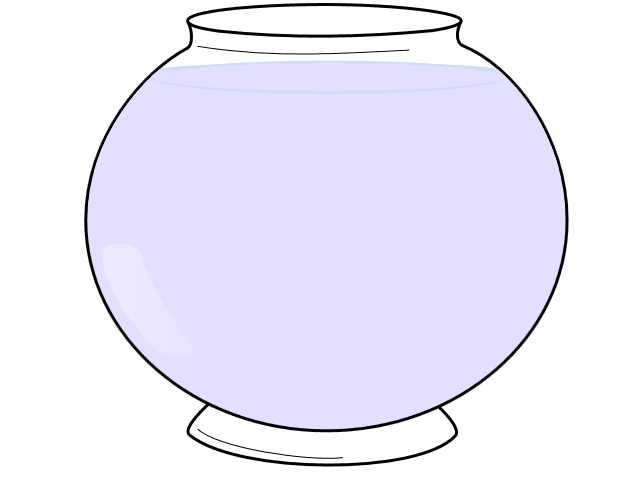
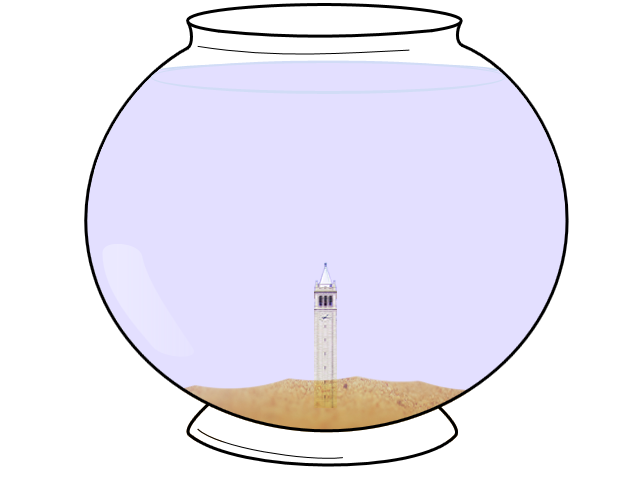
fishbowl picture addition and fish.java

Changed region(s): [[0.2812, 0.5625, 0.7188, 0.9062]]

diff --git a/com/lelandcs/platformer/gfx/Fish.java b/com/lelandcs/platformer/gfx/Fish.java
@@ -7,6 +7,7 @@ import java.io.IOException;
 import java.net.URL;
 import java.util.ArrayList;
 import javax.imageio.ImageIO;
+import java.lang.Object*;
 
 public class Fish{
 	
@@ -26,21 +27,30 @@ public class Fish{
 		image = new Image("fish.png");
 		image.x = 0; //Get random x and y coords for 
 		image.y = 0;
-		state = State.FADEIN; 
-		
-		
-				
+		state = State.FADEIN; 			
 	}
 	
 	public void update() {
 		//currTime += time;
 		if (state == State.DIE) {
+			image.diry += 1; //floats fish to the top
+			if (image.y == rectangle.y) {
 			state = State.FADEOUT; //If it has died in the last cycle begin fadeout! 
+			}
 		}
-		if (currTime >= timeInterval) {
+		if (currTime >= this.expiredDate) {
 			state = State.DIE; // Once the time's up this fish dies!
 		}
-		
+		else if (state == FADEIN) {
+			state = SWIM;
+		} else {
+			if (image.x <= rectangle.x) || (image.x >= rectangle.x + width) { //moves fish back and forth the bowl
+				image.dirx = x(-1)*(image.dirx);
+			image.diry = Math.random()/3.0f; //to scale down the y movement 
+		} if (image.y <= rectangle.y -length || (image.y >= rectangle.y)) {
+			image.diry = -image.diry;
+
+		}
 		
 		
 	}
